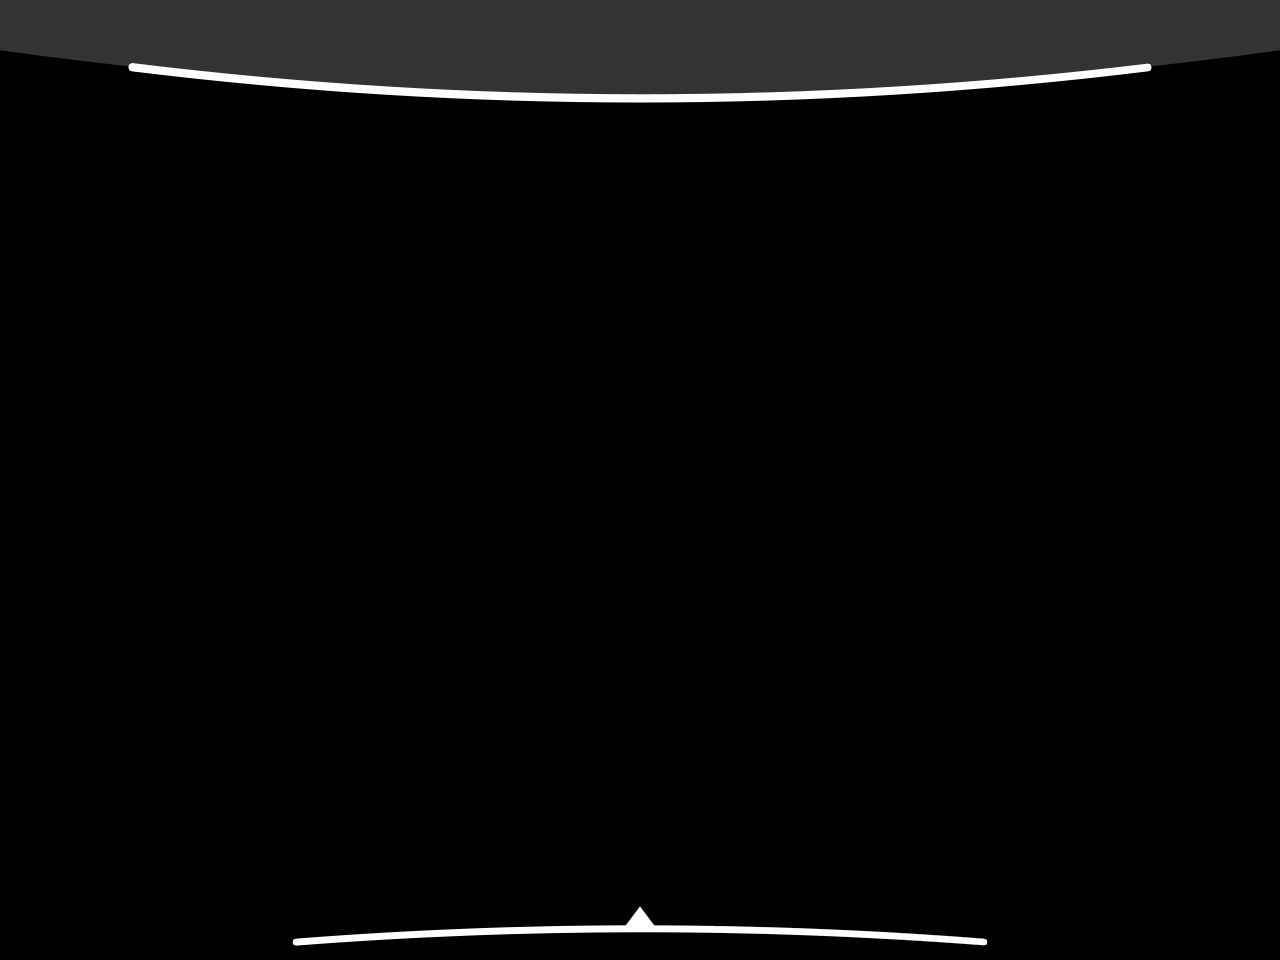
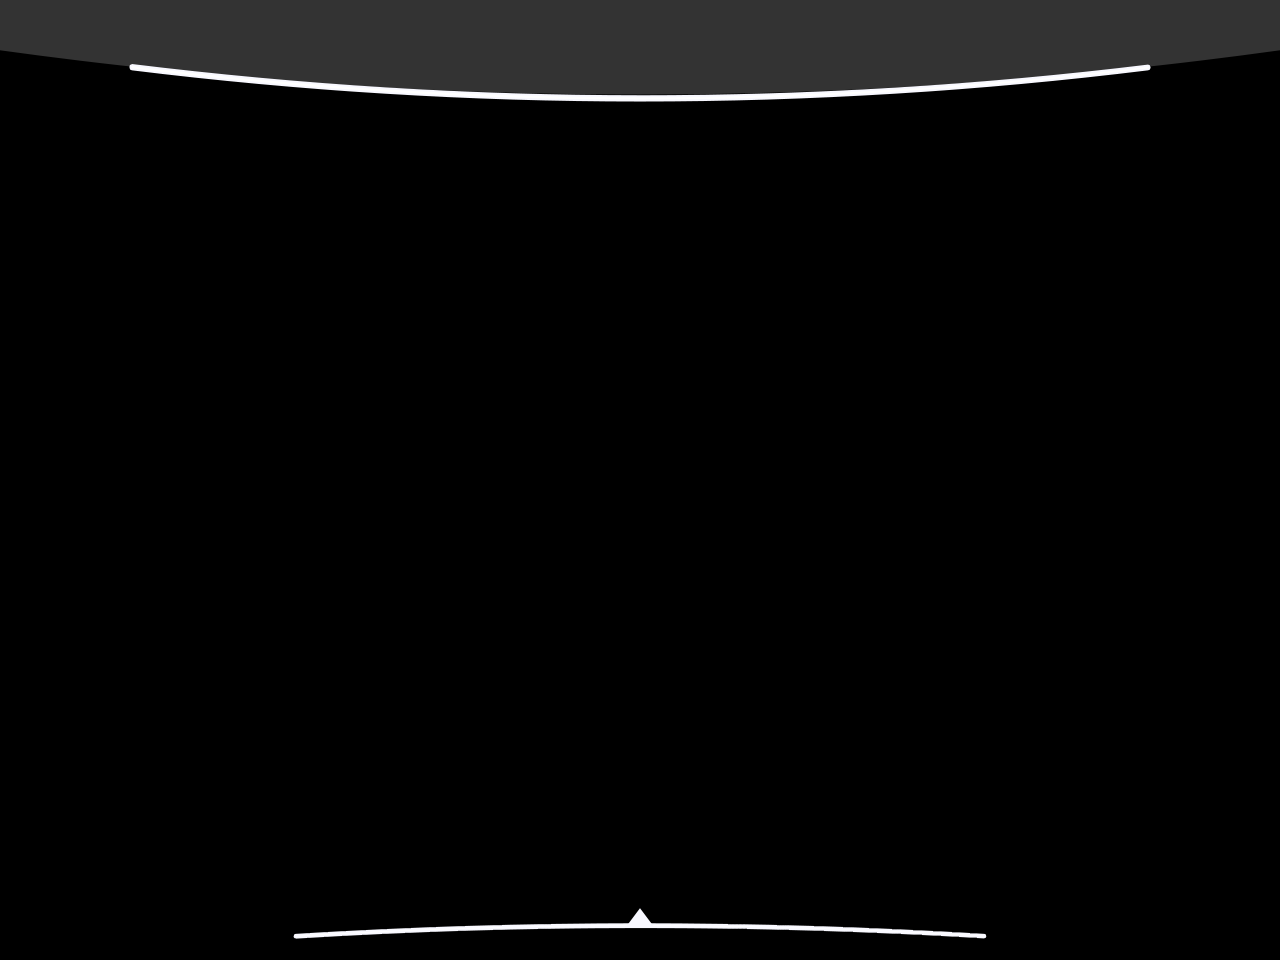
change color and calibrate for display

diff --git a/src/webEngineBrowser.py b/src/webEngineBrowser.py
@@ -8,10 +8,11 @@ from PyQt5.QtWidgets import QFrame, QHBoxLayout, QLineEdit, QPushButton, QTabWid
 class Browser(QTabWidget):
     """Tab Widget that that can have new tabs easily added to it."""
 
-    def __init__(self, size=[835,895],  default_url='https://www.google.com'):
+    def __init__(self, size=[835,895],  default_url='https://www.google.com', style=0):
         # Inits and Setup
         super().__init__()
         self.def_url = default_url
+        self.webStyle = style
         self.pageSize = size
         self.tabNumber = 0
         self.webPages = []
@@ -44,7 +45,6 @@ class Browser(QTabWidget):
         self.plus_button.clicked.connect(self.addNewTab)
         self.min_button.clicked.connect(lambda x: self.setVisible(x), False)
         self.close_button.clicked.connect(self.webclose)
-               
         #DefaultHomePage
         self.addNewTab()
     # end Constructor
@@ -67,7 +67,7 @@ class Browser(QTabWidget):
 
 
     def addNewTab(self):
-        webPage = WebPage(size=self.pageSize)
+        webPage = WebPage(size=self.pageSize, default_url= self.def_url, style=self.webStyle)
         self.webPages.append(webPage)
         self.addTab(webPage, self.def_url)        
         index = self.tabNumber
@@ -101,7 +101,7 @@ class Browser(QTabWidget):
 
 
 class WebPage(QWidget):
-    def __init__(self, size=[835,895], default_url='https://www.google.com'):
+    def __init__(self, size=[835,895], default_url='https://www.google.com', style=0):
         #init and frame setup
         super().__init__()
         self.frame = QFrame(self)
@@ -116,9 +116,9 @@ class WebPage(QWidget):
 
         #TOOLBAR
         self.horizontalLayout = QHBoxLayout()
-        self.url_line = QLineEdit(self.frame)
-        self.back_button = QPushButton('<<', self.frame)
-        self.forward_button = QPushButton('>>', self.frame)
+        self.url_line = QLineEdit()
+        self.back_button = QPushButton('<<')
+        self.forward_button = QPushButton('>>')
         [x.setStyleSheet(cs.small_icon_style) for x in [self.back_button, self.forward_button]]
         self.url_line.setStyleSheet(cs.small_line_style)
         
@@ -137,7 +137,7 @@ class WebPage(QWidget):
         self.quickAccessLayout = QHBoxLayout()
         self.quickAccessLayout.setContentsMargins(1,1,1,1)
         self.quickAccessLayout.setSpacing(5)
-        self.fav_buttons = [QPushButton(s, self) for s in ["Google", "YouTube", "GMail", "Twitter", "Instagram", "reddit"]]
+        self.fav_buttons = [QPushButton(s) for s in ["Google", "YouTube", "GMail", "Twitter", "Instagram", "reddit"]]
         [btn.clicked.connect(lambda state, x="www."+ btn.text() +".com": self.browse(fav=x)) for btn in self.fav_buttons]
         [self.quickAccessLayout.addWidget(btn) for btn in self.fav_buttons]
         [btn.setStyleSheet(cs.small_icon_style) for btn in self.fav_buttons]
@@ -146,9 +146,11 @@ class WebPage(QWidget):
         self.vertLayout = QVBoxLayout(self.frame)
         self.vertLayout.setContentsMargins(1,1,1,1)
         self.vertLayout.setSpacing(1)
-        self.vertLayout.addLayout(self.horizontalLayout)
+        if not style:
+            self.vertLayout.addLayout(self.horizontalLayout)
         self.vertLayout.addWidget(self.web)
-        self.vertLayout.addLayout(self.quickAccessLayout)
+        if not style:
+            self.vertLayout.addLayout(self.quickAccessLayout)
         self.web.setAttribute(Qt.WA_DeleteOnClose)
 
     #browse the given url both from url_line in toolbar and from QuickAccess Toolbar
@@ -164,6 +166,8 @@ class WebPage(QWidget):
                 siteOnly = self.url_line.text().split("www.")
                 if len(siteOnly) == 1:
                     parsedUrl = "https://www." + siteOnly[0]
+                    if len(self.url_line.text().split("m."))==2:
+                        parsedUrl = "https://" + self.url_line.text()
                 else:
                     parsedUrl = "https://www." + siteOnly[1]
             if parsedUrl:

diff --git a/src/main.py b/src/main.py
@@ -58,7 +58,7 @@ class MainWindow(QWidget):
         lay.setRowStretch(1, 2)
         lay.setRowStretch(2, 2)
         lay.setRowStretch(3, 1)
-        lay.setContentsMargins(10, 10, 10, 50)
+        lay.setContentsMargins(15, 15, 15, 50)
         self.setLayout(lay)
         
         self.init_buttons()
@@ -79,15 +79,15 @@ class MainWindow(QWidget):
         #EXIT BUTTON
         self.powerBtn = QPushButton(self)
         self.powerBtn.setIcon(QIcon('../image/powerIcon.png'))
-        self.powerBtn.resize(50,50)
+        self.powerBtn.resize(70,70)
         self.powerBtn.setStyleSheet(cs.smallIcon_style)
-        self.powerBtn.move(W_WIDTH-80, 40)
+        self.powerBtn.move(W_WIDTH-100, 40)
         self.powerBtn.clicked.connect(self.close)
         
         #MIC BUTTON
         self.micBtn = QPushButton(self)
         self.micBtn.setIcon(QIcon('../image/microphoneIcon.png'))
-        self.micBtn.resize(50,50)
+        self.micBtn.resize(70,70)
         self.micBtn.setStyleSheet(cs.smallIcon_style)
         self.micBtn.move(30, 40)
         self.micBtn.clicked.connect(self.startMIC)
@@ -122,7 +122,7 @@ class MainWindow(QWidget):
         horLayout.addWidget(self.handTrackingBtn)
         horLayout.setSpacing(10)
         horLayout.addStretch()
-        self.layout().addLayout(horLayout, 3, 0, 1, 11)
+        self.layout().addLayout(horLayout, 3, 0, 1, 3)
         
 
 
@@ -160,10 +160,9 @@ class MainWindow(QWidget):
 
     def embed_app1(self, appname, args):
         browserSize = [450, 550]
-            
         if not self.embeddedApp1 or not self.embeddedApp1.isEnabled():
             self.program_log.setText('open browser')
-            self.embeddedApp1 = wb.Browser(size=browserSize, default_url='https://www.youtube.com')
+            self.embeddedApp1 = wb.Browser(size=browserSize, default_url='https://www.youtube.com', style=1)
             self.embeddedApp1.setEnabled(True)
             self.layout().addWidget(self.embeddedApp1, 1, 2, 2, 1)
             
@@ -218,6 +217,7 @@ class MainWindow(QWidget):
     def updateAll(self):
         global MOUSE_CLICKABLE
         global MOUSE_TRACKABLE
+        global mutex1
         global self_timer
         global old_time
         MOUSE_CLICKABLE = True
@@ -256,7 +256,6 @@ class MainWindow(QWidget):
         global MOUSE_TRACKABLE
         global self_timer
         global old_time
-        global mutex1
         
         print('processing command: {}'.format(cmd))
         

diff --git a/src/customStyleSheet.py b/src/customStyleSheet.py
@@ -5,7 +5,7 @@ cpalette = {
     "black": ["#1D1C1A"],
     "red": ["#F9665E", "#D9404A", "#9B0700"],
     "orange": ["#FC6600","#FF964F", "#D45500"],
-    "beige": ["beige"],
+    "white": ["#F8F8FF"],
     "gray": ["gray"]
 }
 
@@ -15,11 +15,11 @@ cpalette = {
 smallIcon_style = dedent(
     """QPushButton { 
             color: """+ cpalette["gray"][0] +""";
-            background-color: """+ cpalette["beige"][0] +"""; 
+            background-color: """+ cpalette["white"][0] +"""; 
             border-style: outset; 
             border-width: 0px; 
             border-radius: 10px; 
-            border-color: beige; 
+            border-color: """+ cpalette["white"][0] +"""; 
             font: bold 21px; 
             padding: 5px;
             qproperty-iconSize: 34px;
@@ -34,7 +34,7 @@ smallIcon_style = dedent(
 
 time_label_style = dedent(
     """QLabel { 
-            color: beige;
+            color: """+ cpalette["white"][0] +""";
             border-width: 0px; 
             font: 28px; 
             padding: 3px; 
@@ -42,7 +42,7 @@ time_label_style = dedent(
 
 speech_label_style = dedent(
     """QLabel { 
-            color: beige;
+            color: """+ cpalette["white"][0] +""";
             border-width: 0px; 
             font: 22px; 
             padding: 3px; 
@@ -50,7 +50,7 @@ speech_label_style = dedent(
 
 icon_style = dedent(
     """QPushButton { 
-            background-color: """+ "beige" +"""; 
+            background-color: """+ cpalette["white"][0] +"""; 
             border-style: outset; 
             border-width: 2px; 
             border-radius: 10px;  
@@ -72,7 +72,7 @@ icon_style = dedent(
 
 small_icon_style = dedent(
     """QPushButton { 
-            background-color: white;
+            background-color: """+ cpalette["white"][0] +""";
             border-style: outset; 
             border-width: 1px; 
             border-radius: 5px;  

diff --git a/src/weather.py b/src/weather.py
@@ -1,0 +1,24 @@
+# import the module
+import python_weather
+import asyncio
+
+async def getweather():
+    # declare the client. format defaults to the metric system (celcius, km/h, etc.)
+    client = python_weather.Client()
+
+    # fetch a weather forecast from a city
+    weather = await client.find("Munich")
+
+    # returns the current day's forecast temperature (int)
+    print(weather.current.sky_text, weather.current.temperature)
+
+    # get the weather forecast for a few days
+    for forecast in weather.forecasts:
+        print(str(forecast.date), forecast.sky_text, forecast.temperature)
+
+    # close the wrapper once done
+    await client.close()
+
+if __name__ == "__main__":
+    loop = asyncio.get_event_loop()
+    loop.run_until_complete(getweather())
